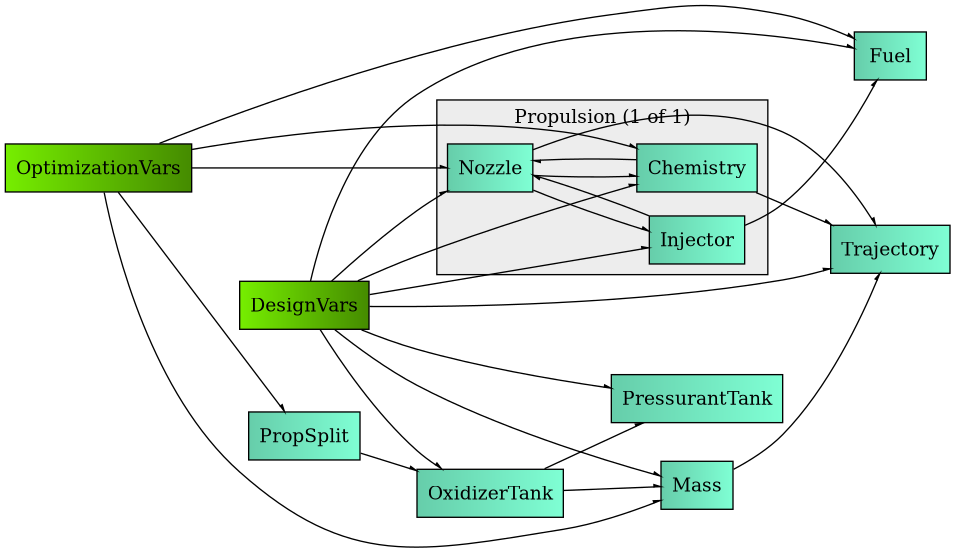
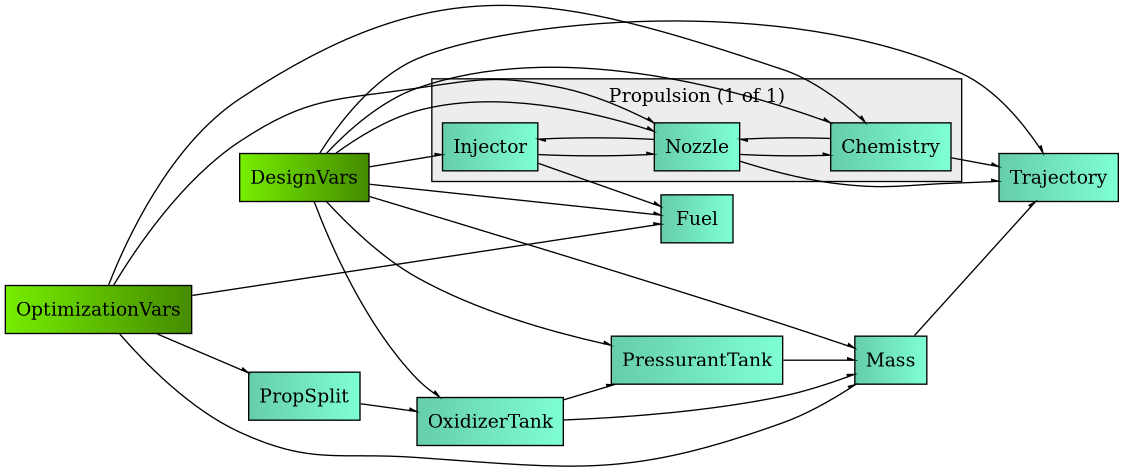
Pressurant tank version; changed mass component; dangling inputs TODO

diff --git a/modules/BEARS_Rocket/comp_mass.py b/modules/BEARS_Rocket/comp_mass.py
@@ -6,32 +6,44 @@ from openmdao.api import ExplicitComponent
 class MassComponent(ExplicitComponent):
 
 	def setup(self):
-		# Inputs
-		self.add_input("payload_mass",    val=2.0,  units="kg")
-		self.add_input("propellant_mass", val=10.0, units="kg")
-		self.add_input("structural_mass", val=2.0,  units="kg")
+		self.add_input("payload_mass",     val=2.0,  units="kg")
+		self.add_input("propellant_mass",  val=10.0, units="kg")
+		self.add_input("pressurant_mass",  val=0.5,  units="kg")
 
-		self.add_output("initial_mass", val=14.0, units="kg")
-		self.add_output("dry_mass",     val=4.0,  units="kg")
+		self.add_input("ox_tank_mass",     val=2.0,  units="kg")
+		self.add_input("press_tank_mass",  val=2.0,  units="kg")
+		self.add_input("motor_dry_mass",   val=4.0,  units="kg")
+
+		self.add_input("airframe_mass",    val=5.0,  units="kg")
+		self.add_input("recovery_mass",    val=2.5,  units="kg")
+		self.add_input("avionics_mass",    val=2.5,  units="kg")
+		self.add_input("airfoil_mass",     val=1.0,  units="kg")
+
+		self.add_output("structural_mass", val=18.0, units="kg")
+		self.add_output("dry_mass",        val=20.0, units="kg")
+		self.add_output("initial_mass",    val=40.0, units="kg")
 
 	def setup_partials(self):
-		self.declare_partials(
-			"dry_mass", ["payload_mass", "structural_mass"], val=1.0
-		)
-
-		self.declare_partials(
-			"initial_mass",
-			["payload_mass", "structural_mass", "propellant_mass"],
-			val=1.0,
-		)
+		self.declare_partials("*", "*", method="cs")
 
 	def compute(self, inputs, outputs):
+		m_struct  = (
+			inputs["ox_tank_mass"]
+			+ inputs["press_tank_mass"]
+			+ inputs["motor_dry_mass"]
+			+ inputs["airframe_mass"]
+			+ inputs["recovery_mass"]
+			+ inputs["avionics_mass"]
+			+ inputs["airfoil_mass"]
+		)
+
 		m_prop    = inputs["propellant_mass"]
+		m_press   = inputs["pressurant_mass"]
 		m_payload = inputs["payload_mass"]
-		m_struct  = inputs["structural_mass"]
 
 		m_dry = m_payload + m_struct
-		m_init = m_dry + m_prop
+		m_init = m_dry + m_prop + m_press
 
-		outputs["dry_mass"]     = m_dry
-		outputs["initial_mass"] = m_init
+		outputs["structural_mass"] = m_struct
+		outputs["dry_mass"]        = m_dry
+		outputs["initial_mass"]    = m_init

diff --git a/modules/BEARS_Rocket/group_rocket.py b/modules/BEARS_Rocket/group_rocket.py
@@ -130,17 +130,18 @@ class RocketGroup(Group):
 
 		# - Mass
 		self.connect("DesignVars.g_payload_mass",         "Mass.payload_mass")
-
-		self.connect("Propulsion.tank_dry_mass",          "Mass.structural_mass")
+		self.connect("Propulsion.tank_dry_mass",          "Mass.ox_tank_mass")
+		self.connect("Propulsion.press_dry_mass",         "Mass.press_tank_mass")
+		self.connect("Propulsion.press_press_mass",       "Mass.pressurant_mass")
 
 		self.connect("OptimizationVars.propellant_mass",  "Propulsion.prop_prop_mass_init")
 		self.connect("OptimizationVars.propellant_mass",  "Mass.propellant_mass")
 
 		# - Trajectory
-		self.connect("DesignVars.g_diameter",    "Trajectory.diameter")
+		self.connect("DesignVars.g_diameter",             "Trajectory.diameter")
 
-		self.connect("Propulsion.chem_isp",      "Trajectory.isp")
-		self.connect("Propulsion.nozzle_thrust", "Trajectory.thrust")
-		self.connect("Mass.initial_mass",        "Trajectory.initial_mass")
-		self.connect("Mass.dry_mass",            "Trajectory.dry_mass")
+		self.connect("Propulsion.chem_isp",               "Trajectory.isp")
+		self.connect("Propulsion.nozzle_thrust",          "Trajectory.thrust")
+		self.connect("Mass.initial_mass",                 "Trajectory.initial_mass")
+		self.connect("Mass.dry_mass",                     "Trajectory.dry_mass")
 		#endregion

diff --git a/solver.py b/solver.py
@@ -75,13 +75,13 @@ def main():
 	prob.set_val("DesignVars.g_diameter", 0.12)
 	prob.set_val("DesignVars.tank_pressure", 70)
 	prob.set_val("DesignVars.tank_diam", 0.12)
-	prob.set_val("DesignVars.injector_area", 4.5e-5)
+	prob.set_val("DesignVars.injector_area", 1.5e-5)
 	prob.set_val("DesignVars.injector_cd", 0.7)
 	prob.set_val("DesignVars.fuel_port_diam", 0.05)
 	prob.set_val("DesignVars.fuel_reg_exponent", 0.5)
 	prob.set_val("DesignVars.fuel_reg_ref", 1.0e-4)
 	prob.set_val("DesignVars.nozzle_expansion_ratio", 40.0)
-	prob.set_val("DesignVars.nozzle_throat_area", 5.0e-4)
+	prob.set_val("DesignVars.nozzle_throat_area", 2.0e-4)
 
 	# - Constraints
 	prob.model.add_constraint(
